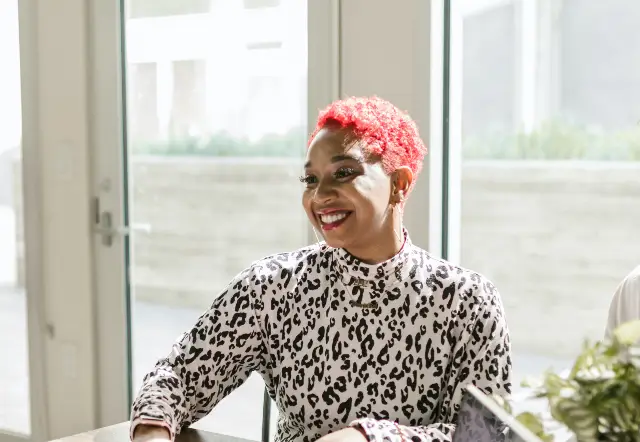
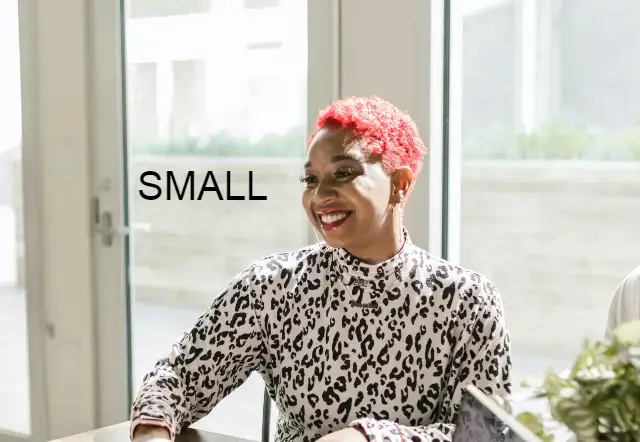
labels for images and creation of disover page

Changed region(s): [[0.2188, 0.3824, 0.4375, 0.4706]]

diff --git a/chamber/discover.html b/chamber/discover.html
@@ -1,0 +1,75 @@
+<!DOCTYPE html>
+<html lang="en">
+<head>
+    <meta charset="utf-8">
+        <meta name="viewport" content="with=device-width,initial-scale=1.0">
+        <title>Riachuelo Chamber of Tourism</title>
+        <meta name="description" content="Riachuelo Chamber of Tourism"> 
+        <link rel="shortcut icon" href="./favicon.ico"> 
+        <link rel="preconnect" href="https://fonts.googleapis.com">
+        <link rel="preconnect" href="https://fonts.gstatic.com" crossorigin>
+        <link href="https://fonts.googleapis.com/css2?family=Nixie+One&family=Sansita&display=swap" rel="stylesheet">
+        <link rel="stylesheet" href="./styles/normalize.css">
+        <link rel="stylesheet" href="./styles/base.css">
+        <link rel="stylesheet" href="./styles/medium.css">
+        <link rel="stylesheet" href="./styles/large.css">
+        <link rel="stylesheet" href="https://cdnjs.cloudflare.com/ajax/libs/font-awesome/4.7.0/css/font-awesome.min.css">
+</head>
+<body>
+    <div id="announcement" class="banner">
+        🤝🏼 Come join us for the chamber meet and greet Wednesday at 7:00 p.m.
+    </div>
+    <header>
+        <div class="first-container">
+            <div class="logo-container">
+                <img class="logo" src="./images/RIACHUELO.webp" alt="Riachuelo">
+                <section class="site-name-container">
+                    <h1>Riachuelo</h1>
+                    <h2>Chamber of Tourism</h2>
+                </section>
+            </div>
+            <div class="change-size">
+                <div class="navBar" id="mainNavBar">
+                    <a href="discover.html">Discover</a>
+                    <a href="#">Directory</a>
+                    <a href="#">Join</a>
+                    <a href="#">Contact</a>
+                    <a href="javascript:void(0);" class="icon" onClick="openDrawerMenu()">&#9776;</a>
+                </div>
+                <div class="icon-container">
+                    <a href="#" class="fa fa-facebook"></a>
+                    <a href="#" class="fa fa-twitter"></a>
+                </div>
+            </div>
+        </div>
+        <div>
+            <p id="today-date"></p>
+        </div>
+    </header>
+    <main>
+
+    </main>
+    <footer>
+        <div class="company-footer">
+            <div class="company-text">
+                <div class="footer-logo"><img class="logo" src="./images/RIACHUELO.webp" alt="">
+                    <h2>Riachuelo - Chamber of Tourism</h2>
+                </div>
+                <div>
+                    <address class="place">Brandsen 805, C1161 CABA</address>
+                    <address class="email">per8554@byui.edu</address>
+                    <address class="contact">+(54) 351 224 0528</address>
+                    <a class="map" href="#">📌Location Map</a>
+                </div>
+            </div>
+        </div>
+        <div class="infofooter">
+            <small> &copy;<span class="currentyear"></span> Riachuelo Chamber | <b>Nadia Peralta Diaz</b> | WDD 230 Project | Last Updated: <span id="lastModified"></span></small>
+        </div>
+    </footer>
+
+    <script src="./scripts/script.js" defer></script>
+    <script src="./scripts/windchill.js" defer></script>
+    
+</body>
+</html>

diff --git a/chamber/index.html b/chamber/index.html
@@ -22,7 +22,7 @@
     <header>
         <div class="first-container">
             <div class="logo-container">
-                <img class="logo" src="./images/RIACHUELO.webp" alt="Riachuelo">
+                <img class="logo" src="./images/RIACHUELO.webp" href="index.html"alt="Riachuelo">
                 <section class="site-name-container">
                     <h1>Riachuelo</h1>
                     <h2>Chamber of Tourism</h2>
@@ -30,7 +30,7 @@
             </div>
             <div class="change-size">
                 <div class="navBar" id="mainNavBar">
-                    <a href="#">Discover</a>
+                    <a href="discover.html">Discover</a>
                     <a href="#">Directory</a>
                     <a href="#">Join</a>
                     <a href="#">Contact</a>
@@ -48,10 +48,10 @@
     </header>
     <main>
         <section class="hero">
-            <picture>
-                <source media="(min-width: 960px)" srcset="./images/wdd230-org-large.webp">
-                <source media="(min-width: 600px)" srcset="./images/wdd230-org-medium.webp">
-                <img src="./images/wdd230-org-small.webp" alt="Two men and one woman having a business meeting.">
+            <picture class="hero-img-photo">
+                <source media="(min-width: 960px)" srcset="./images/wdd230-org-large.webp" alt="large">
+                <source media="(min-width: 600px)" srcset="./images/wdd230-org-medium.webp" alt="medium">
+                <img src="./images/wdd230-org-small.webp" alt="small">
             </picture>
             <div class="card-info">
                 <h1>Welcome to Riachuelo</h1>

diff --git a/chamber/styles/base.css b/chamber/styles/base.css
@@ -277,3 +277,4 @@ nav ul li a:hover {
 .card-info{
   margin-top: -225px;
 }
+
